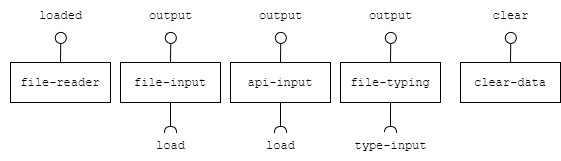
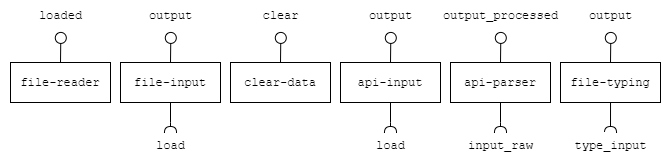
Updates API pipeline documentation

diff --git a/modules/data/examples/exampleApiInputTemplate.html b/modules/data/examples/exampleApiInputTemplate.html
@@ -21,7 +21,7 @@
                 publish="click~transform/to_input_api">
     </button-oid>
     <api-input subscribe="transformed/to_input_api~input_api" publish="output~transformed/raw_api"></api-input>
-    <api-parser subscribe="transformed/raw_api~input_raw" publish="output_processed~detransform/to_console"></api-parser>
+    <api-parser subscribe="transformed/raw_api~input-raw" publish="output-processed~detransform/to_console"></api-parser>
     <value-to-raw publish="output-raw~transformed/to_input_api;output-value~detransformed/to_console"
                       subscribe="transform/to_input_api~transform;detransform/to_console~detransform">
     </value-to-raw>

diff --git a/modules/data/README.md b/modules/data/README.md
@@ -1,32 +1,31 @@
-# Module `Data`
+# `Data` module
 
-# Description
-Our module is responsible for reading files (.json and .csv) and collecting raw data from APIs to transform them into a predefined format that is useful for other components to use. Essentially, we take the raw data and convert it into a JSON format, which is then inserted into the data bus.
+<p align="center">
+  <img src="images/DataModule.png"/>
+</p>
+
+The data module is the very beggining of this application's workflow, allowing the ingestion of data from multiple sources and formatting it such that the others modules can operate on it seamlessly. It operates on two fronts: raw data from _.csv_ or _JSON_ files, and _JSON_ results of API calls, both of which are formatted into a standardized format through a shared workflow. As such, this module sets the basis upon which all other modules can operate.
+
+This is an explanation of the components contained in this module and their relationship to each other and other modules.
 
 # Team `QR2.0`
 * `Giovana Kerche Bonás`
-	* `Responsible for architecting and developing the file-input and file-reader components to transform into JSON.`
+	* Responsible for architecture and development of the _File Input_ and _File Reader_ components, part of the _data from file_ pipeline.
 * `Gustavo Araújo Morais`
-	* `Responsible for architecting and developing the api-input, this processes JSON data and send to data bus.`
+	* Responsible for architecture and development of the _API Input_ and _API parser_ components, part of the _data from API_ pipeline.
 * `João Guilherme Alves Santos`
-	* `Responsible for architecting and developing the clear-data, file-input and file-reader components to transform into JSON.`
+	* Responsible for architecture and development of the _API Input_ and _API parser_ components, part of the _data from API_ pipeline.
 * `Raniery Rodrigues da Silva`
-	* `Responsible for architecting and developing the file typing component to transform into JSON.`
+	* Responsible for architecture and development of the _Type Input_ component, which is part of the process of standardization of data ingested.
 * `Leonardo Livrare Martins`
-	* `Responsible for architecting and developing the api-input component to transform into JSON.`
+	* Responsible for architecture and development of the _API Input_ and _API parser_ components, part of the _data from API_ pipeline.
 
 # Message Types
+These are the message types exchanged between components of this module and from this module to others.
 
-**`RawFileContent`**
-~~~json
-{
-	"database": string, 
-	"table": string, 
-	"file_name": string, 
-	"file_extension": string
-}
-~~~
 **`TreatedDataContent`**
+
+Data collected. Still needs to be typed by the _Type Input_ component
 ~~~json
 {
 	"columns": [name, ...],
@@ -37,6 +36,8 @@ Our module is responsible for reading files (.json and .csv) and collecting raw 
 }
 ~~~
 **`TypedDataContent`**
+
+The standard for data storage throghout the application. Contains the name and type for each column, as well as the data that's being stored.
 ~~~json
 {
 	{
@@ -49,6 +50,8 @@ Our module is responsible for reading files (.json and .csv) and collecting raw 
 }
 ~~~
 **`TreatedReaderContent`**
+
+Used to request a file stored in _IndexedDB_ to be read.
 ~~~json
 {
 	"database": string, 
@@ -57,20 +60,9 @@ Our module is responsible for reading files (.json and .csv) and collecting raw 
 	"file_extension": string
 }
 ~~~
-**`ErrorDuringDataIngestion`**
-~~~json
-{
-	"error": string
-}
-~~~
-**`ErrorDuringDataProcessing`**
-~~~json
-{
-	"error": string,
-	"line": number
-}
-~~~
 **`RawAPIRequest`**
+
+Holds the info to an API request.
 ~~~json
 {
 	"api_url": string,
@@ -80,13 +72,34 @@ Our module is responsible for reading files (.json and .csv) and collecting raw 
 }
 ~~~
 **`RawAPIContent`**
+
+Holds the contents returned by an API.
 ~~~js
 [{object}, ...]
+~~~
+**`ErrorDuringDataIngestion`**
+
+Signifies an error that occurs during a process of data ingestion, such as reading from a file or API.
+~~~json
+{
+	"error": string
+}
+~~~
+**`ErrorDuringDataProcessing`**
+
+Signifies an error that occurs during a process of data processing, such as in the _Input Type_ component.
+~~~json
+{
+	"error": string,
+	"line": number
+}
 ~~~
 
 # Components
 
-![Component specification](images/Data.png)
+<p align="center">
+  <img src="images/Data.png"/>
+</p>
 
 ## Component `file-reader`
 
@@ -116,24 +129,26 @@ notice    | source | message type
 ---
 ## Component `api-input`
 
-For this component, the responsibility is to collect raw data from an API specified by us. Initially we are thinking about the implementation for the google sheet API that will take data from online spreadsheets and transform it into a useful format for other components. Similar to file-input, we convert the raw data into a JSON format, which is then inserted into the data bus.
+This component is used to ingest from an API specified by the user. It receives an API request comprised of URL, method, headers and body, and executes it.
+
+It is important to note that the data this component publishes on the bus is the raw data it receives from the API if the request was successful, or an error message otherwise. The standardization of this data is a responsibility of the `api-parser` component.
 
 ### Input Notices
 
 notice | action | message type
 -------| ------ | ------------
-`load` | `The component collects the url received and starts the process of obtaining and transforming the raw data into JSON format.` | `RawAPIRequest`
+`load` | `The component collects the request and starts the process of ingesting the API.` | `RawAPIRequest`
 
 ### Output Notices
 
 notice    | source | message type
 ----------| -------| ------------
-`output` | `As soon as the component finishes transforming the raw data into JSON, it publishes the result on the data bus.` | `RawAPIContent` or `ErrorDuringDataIngestion`
+`output` | `When the request is finished, publishes the raw API content if the request was successful, or an error otherwise.` | `RawAPIContent` or `ErrorDuringDataIngestion`
 
 ---
 ## Component `api-parser`
 
-This component receives raw api content as a list of objects and transforms it into TreatedDataContent
+This component is responsible for standardizing the raw data obtained from APIs through the `api-input` component. It receives the raw data and transforms it into the untyped standard format. From here, it should be typed by a `type-input` component before it is used by other modules. 
 
 ### Input Notices
 
@@ -145,7 +160,7 @@ notice | action | message type
 
 notice    | source | message type
 ----------| -------| ------------
-`output_processed` | `As the component finishes transforming the data received, publishes it as TreatedDataContent` | `TreatedDataContent` or `ErrorDuringDataIngestion`
+`output_processed` | `When the component finishes transforming the data received, publishes the treated data if the transformation was successful, or an error message otherwise.` | `TreatedDataContent` or `ErrorDuringDataIngestion`
 
 ---
 ## Component `file-typing`
